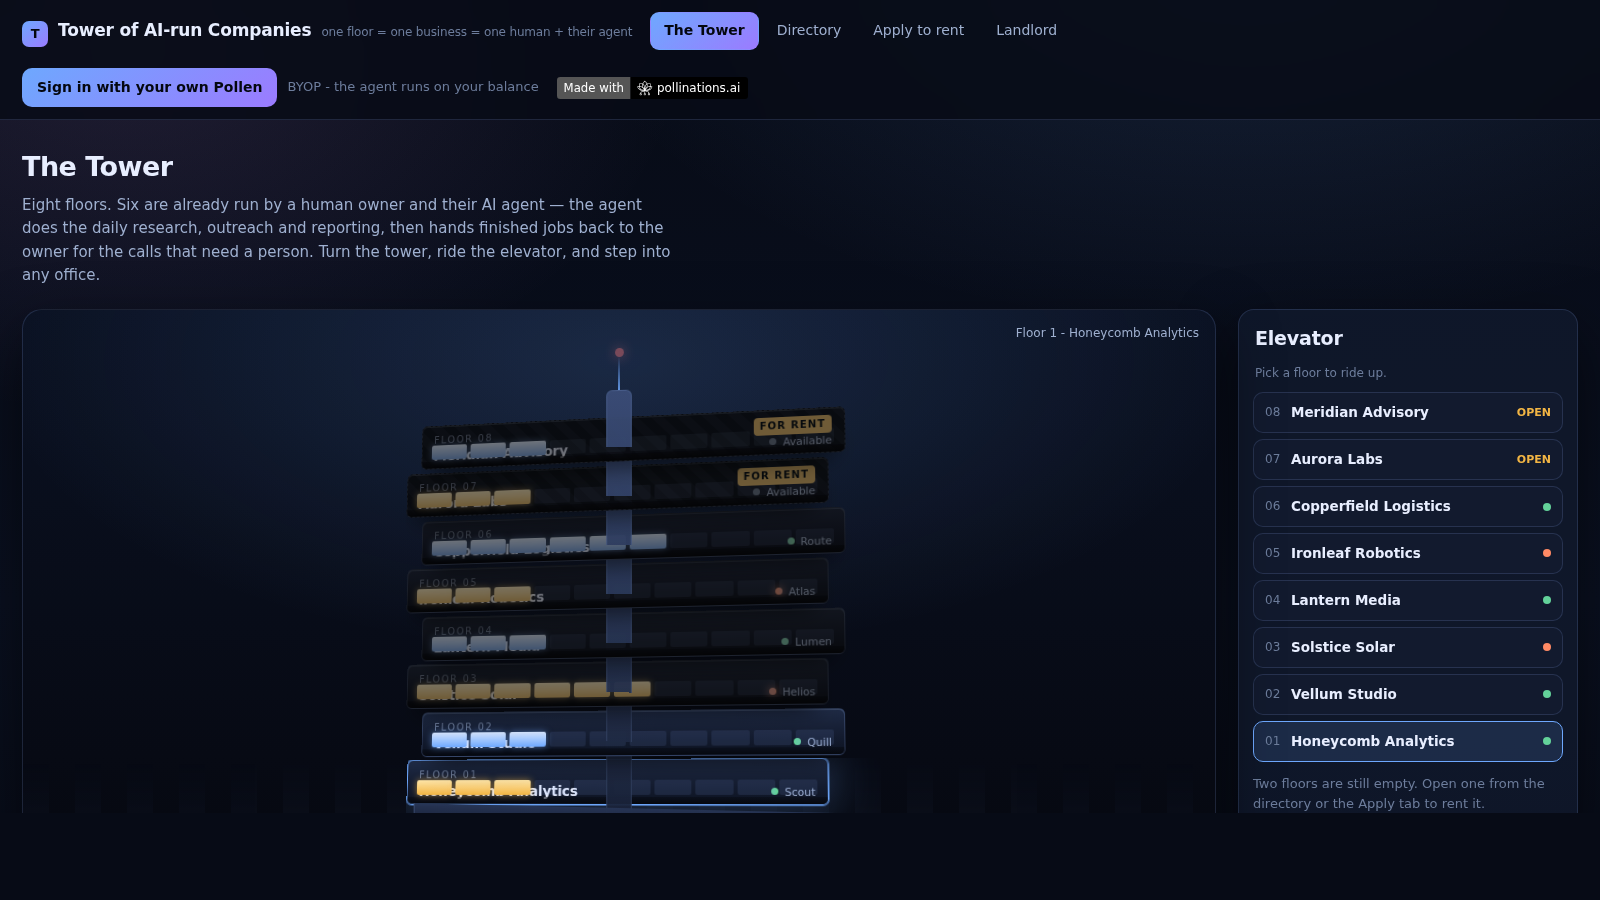
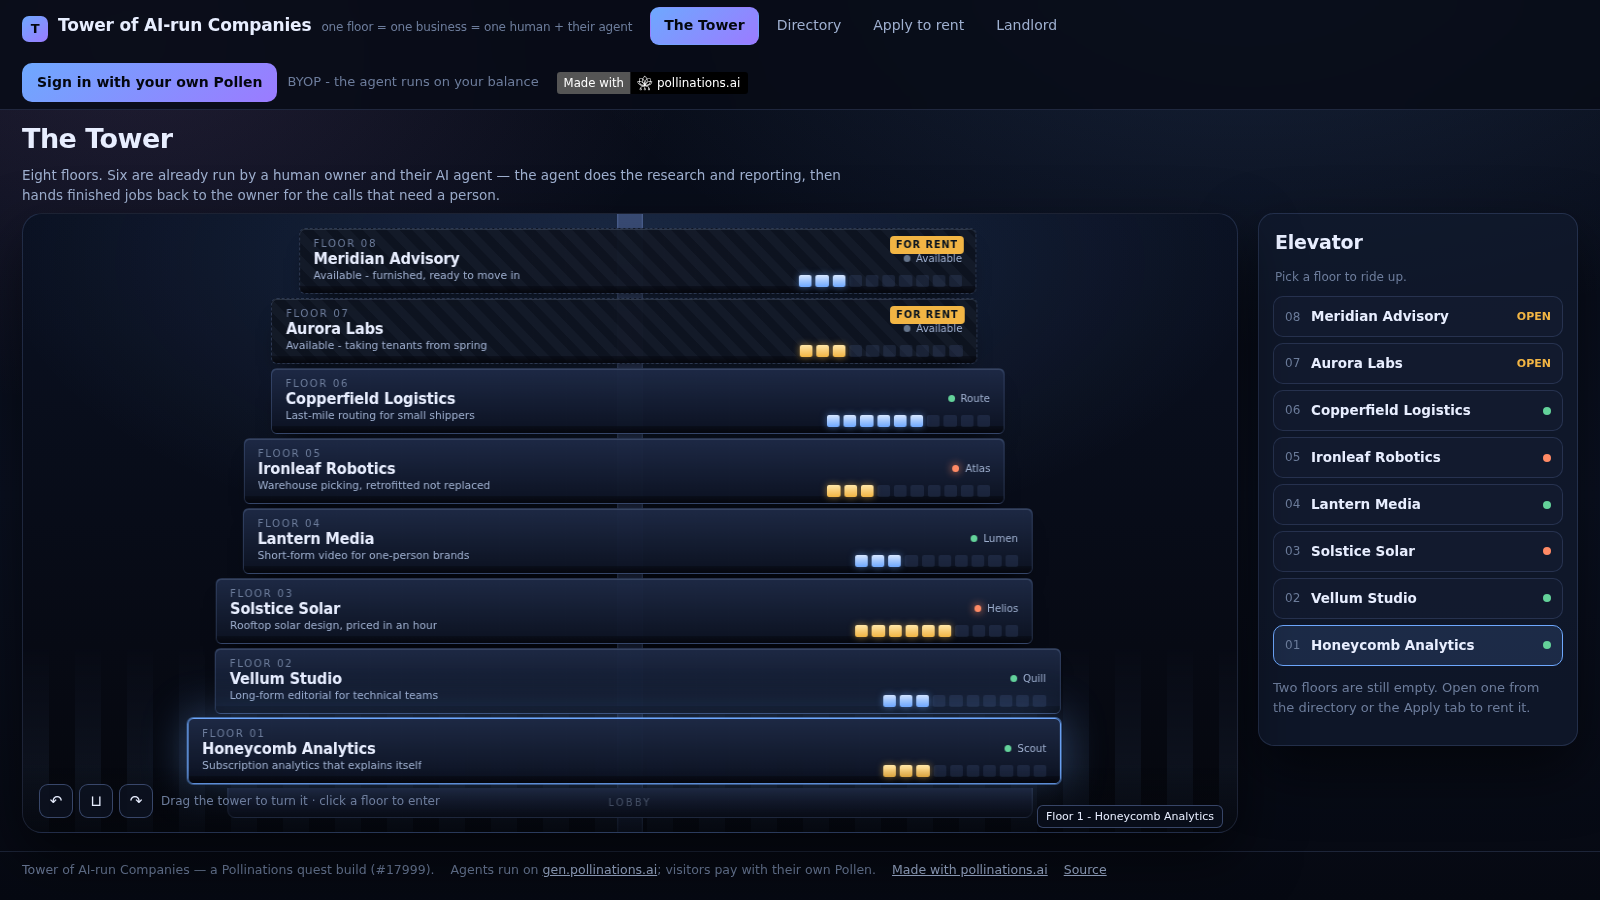
Fix tower layout: all 8 floors visible, readable labels, caption anchored to selected floor

diff --git a/assets/css/styles.css b/assets/css/styles.css
@@ -15,10 +15,10 @@
   --radius: 14px;
   --shadow: 0 24px 60px rgba(0, 0, 0, 0.55);
   /* Tower geometry lives in app.js (single source of truth); these are fallbacks. */
-  --fw: 430px; /* floor width  */
-  --fh: 46px;  /* floor height */
-  --gap: 3px;  /* gap between floors */
-  --stage-h: 640px;
+  --fw: 900px; /* floor width at the base */
+  --fh: 66px;  /* floor height */
+  --gap: 4px;  /* gap between floors */
+  --stage-h: 620px;
   --ride: 0px;
 }
 
@@ -54,7 +54,7 @@ a { color: var(--accent); }
   align-items: center;
   gap: 18px;
   flex-wrap: wrap;
-  padding: 12px 22px;
+  padding: 7px 22px;
   background: rgba(7, 11, 22, 0.82);
   backdrop-filter: blur(14px);
   border-bottom: 1px solid var(--line);
@@ -149,21 +149,27 @@ button.btn[disabled] { opacity: 0.45; cursor: not-allowed; }
 .pill .dot { width: 7px; height: 7px; border-radius: 50%; background: var(--ok); }
 
 /* ----------------------------------------------------------------- views */
-.view { display: none; padding: 26px 22px 70px; }
+.view { display: none; padding: 8px 22px 18px; }
 .view.active { display: block; }
 
 h1 { font-size: 27px; letter-spacing: -0.02em; margin: 0 0 6px; }
 h2 { font-size: 19px; letter-spacing: -0.01em; margin: 0 0 4px; }
 h3 { font-size: 15px; margin: 0 0 6px; }
-.lede { color: var(--ink-dim); max-width: 68ch; margin: 0 0 22px; }
+.lede {
+  color: var(--ink-dim);
+  max-width: 96ch;
+  margin: 0 0 8px;
+  font-size: 13.5px;
+  line-height: 1.45;
+}
 .muted { color: var(--ink-dim); }
 .faint { color: var(--ink-faint); font-size: 13px; }
 
 /* ------------------------------------------------------------ tower view */
 .tower-layout {
   display: grid;
-  grid-template-columns: minmax(0, 1fr) 340px;
-  gap: 22px;
+  grid-template-columns: minmax(0, 1fr) 320px;
+  gap: 20px;
   align-items: start;
 }
 @media (max-width: 1080px) { .tower-layout { grid-template-columns: 1fr; } }
@@ -204,9 +210,9 @@ h3 { font-size: 15px; margin: 0 0 6px; }
 }
 
 /* ----------------------------------------------------------------- tower
-   A stacked-floors tower: each floor is a slab with a lit facade, a slight
-   rotateX for depth and a per-floor horizontal offset so the stack reads as
-   a building rather than a list. The "elevator" animates the stack's
+   A stacked-floors tower: each floor is a slab with a lit facade, tapering
+   in width as it rises and offset slightly to the side, so the stack reads
+   as a building rather than a list. The "elevator" animates the stack's
    translateY so the chosen floor arrives in the middle of the stage. */
 .tower-viewport {
   position: absolute;
@@ -215,14 +221,12 @@ h3 { font-size: 15px; margin: 0 0 6px; }
   display: flex;
   align-items: center;
   justify-content: center;
-  perspective: 1500px;
-  perspective-origin: 50% 50%;
 }
 
 /* The camera: this element carries the elevator ride and the rotation. */
 .tower-ride {
-  transform: translateY(var(--ride, 0px)) rotateY(var(--spin, 0deg));
-  transform-style: preserve-3d;
+  transform: translateY(var(--ride, 0px)) translateX(var(--centre, 0px))
+             rotateY(var(--spin, 0deg));
   transition: transform 1s cubic-bezier(0.22, 1, 0.36, 1);
   will-change: transform;
 }
@@ -231,7 +235,6 @@ h3 { font-size: 15px; margin: 0 0 6px; }
 .tower-stack {
   position: relative;
   width: var(--fw);
-  transform-style: preserve-3d;
 }
 
 .tower-shaft {
@@ -277,8 +280,8 @@ h3 { font-size: 15px; margin: 0 0 6px; }
 .tower-base {
   position: relative;
   z-index: 1;
-  width: calc(var(--fw) + 74px);
-  height: 34px;
+  width: calc(var(--fw) * 0.84 + 74px);
+  height: 30px;
   margin: 0 auto;
   border-radius: 0 0 8px 8px;
   background: linear-gradient(180deg, rgba(38, 52, 84, 0.98), rgba(14, 20, 36, 0.98));
@@ -296,12 +299,11 @@ h3 { font-size: 15px; margin: 0 0 6px; }
 .floor {
   position: relative;
   z-index: 1;
-  width: var(--fw);
+  width: calc(var(--fw) * var(--taper, 1));
   height: var(--fh);
   margin: 0 auto var(--gap);
-  transform: translateX(var(--x, 0px)) rotateX(9deg) rotateZ(-1.2deg);
-  transform-style: preserve-3d;
-  transition: transform 0.35s cubic-bezier(0.22, 1, 0.36, 1), filter 0.3s, opacity 0.3s;
+  transform: translateX(var(--x, 0px));
+  transition: width 0.35s cubic-bezier(0.22, 1, 0.36, 1), transform 0.35s cubic-bezier(0.22, 1, 0.36, 1), filter 0.3s, opacity 0.3s;
 }
 
 .floor-slab {
@@ -345,20 +347,22 @@ h3 { font-size: 15px; margin: 0 0 6px; }
 .floor-plate {
   position: relative;
   height: 100%;
-  padding: 7px 12px 10px;
+  padding: 6px 14px 20px;
   display: flex;
   flex-direction: column;
-  justify-content: space-between;
+  justify-content: flex-start;
+  gap: 0;
+  overflow: hidden;
 }
 .floor-topline { display: flex; align-items: center; justify-content: space-between; gap: 8px; }
 .floor-num {
-  font-size: 10px;
+  font-size: 10.5px;
   letter-spacing: 0.16em;
   color: var(--ink-faint);
   text-transform: uppercase;
 }
-.floor-name { font-weight: 700; font-size: 14px; letter-spacing: -0.01em; line-height: 1.2; }
-.floor-tagline { font-size: 10.5px; color: var(--ink-dim); margin-top: 1px; }
+.floor-name { font-weight: 700; font-size: 15px; letter-spacing: -0.01em; line-height: 1.15; white-space: nowrap; overflow: hidden; text-overflow: ellipsis; }
+.floor-tagline { font-size: 11px; color: var(--ink-dim); line-height: 1.2; white-space: nowrap; overflow: hidden; text-overflow: ellipsis; }
 .floor-status { display: flex; align-items: center; gap: 6px; font-size: 10.5px; color: var(--ink-dim); }
 .floor-status .dot { width: 7px; height: 7px; border-radius: 50%; flex: none; }
 .dot.busy { background: var(--warn); box-shadow: 0 0 9px var(--warn); }
@@ -368,8 +372,9 @@ h3 { font-size: 15px; margin: 0 0 6px; }
 /* Facade: a strip of windows along the bottom of every floor. */
 .windows {
   position: absolute;
-  left: 10px; right: 10px; bottom: 9px;
-  height: 15px;
+  right: 14px; bottom: 6px;
+  width: 168px;
+  height: 12px;
   display: flex;
   gap: 4px;
   z-index: 2;
@@ -421,11 +426,16 @@ h3 { font-size: 15px; margin: 0 0 6px; }
 
 .floor-tag {
   position: absolute;
-  right: 16px; top: 14px;
-  z-index: 5;
-  font-size: 12px;
-  color: var(--ink-dim);
-  text-align: right;
+  right: 14px; bottom: 4px;
+  z-index: 6;
+  padding: 2px 8px;
+  border-radius: 6px;
+  border: 1px solid var(--line-strong);
+  background: rgba(9, 14, 27, 0.92);
+  font-size: 11px;
+  color: var(--ink);
+  white-space: nowrap;
+  pointer-events: none;
 }
 
 /* --------------------------------------------------------------- elevator */
@@ -722,7 +732,7 @@ table.list tr:last-child td { border-bottom: 0; }
 
 footer.site {
   border-top: 1px solid var(--line);
-  padding: 20px 22px 34px;
+  padding: 8px 22px 10px;
   color: var(--ink-faint);
   font-size: 12.5px;
   display: flex;

diff --git a/assets/js/app.js b/assets/js/app.js
@@ -11,11 +11,15 @@
   // Tower geometry. CSS reads these from custom properties written below so
   // the stylesheet and the script can never disagree.
   const TOWER_FLOORS = 8;
-  const FLOOR_W = 430;
-  const FLOOR_H = 46;
-  const FLOOR_GAP = 3;
+  const FLOOR_W = 900;
+  const FLOOR_H = 66;
+  const FLOOR_GAP = 4;
   const BASE_H = 30;
-  const STAGE_H = 640;
+  const STAGE_H = 620;
+  // Each floor is narrower than the one below it, so the stack reads as a
+  // tower in perspective without any 3D rotation (which would inflate the
+  // slabs and overflow the stage).
+  const FLOOR_TAPER_STEP = 0.032;
   const TOWER_SPIN = -14;
 
   let state = {
@@ -283,7 +287,9 @@
       floorNode.dataset.floor = String(floor);
       floorNode.dataset.companyId = company.id;
       // Slight per-floor horizontal offset so the stack reads as a building.
-      floorNode.style.setProperty("--x", (floor % 2 === 0 ? 9 : -7) + "px");
+      floorNode.style.setProperty("--x", (floor % 2 === 0 ? 8 : -6) + "px");
+      floorNode.style.setProperty(
+        "--taper", String(1 - (floor - 1) * FLOOR_TAPER_STEP));
       floorNode.style.setProperty("--accent-company", company.accent || "#6ea8fe");
 
       const slab = el("div", "floor-slab");
@@ -370,7 +376,13 @@
     });
     const company = companyByFloor(floor);
     const tag = $("#floor-tag");
-    if (tag && company) tag.textContent = "Floor " + floor + " - " + company.name;
+    if (tag && company) {
+      tag.textContent = "Floor " + floor + " - " + company.name;
+      // Move the caption into the selected floor's own card so it always sits
+      // next to the floor it names, whichever floor that is.
+      const selected = $('.floor[data-floor="' + floor + "'] .floor-plate");
+      if (selected && tag.parentNode !== selected) selected.appendChild(tag);
+    }
     if (openOffice && company) openOfficePanel(company.id);
   }
 

diff --git a/index.html b/index.html
@@ -34,9 +34,8 @@
   <section class="view active" id="view-tower">
     <h1>The Tower</h1>
     <p class="lede">
-      Eight floors. Six are already run by a human owner and their AI agent &mdash; the agent does the daily
-      research, outreach and reporting, then hands finished jobs back to the owner for the calls that need a person.
-      Turn the tower, ride the elevator, and step into any office.
+      Eight floors. Six are already run by a human owner and their AI agent &mdash; the agent does the research and
+      reporting, then hands finished jobs back to the owner for the calls that need a person.
     </p>
 
     <div class="tower-layout">
